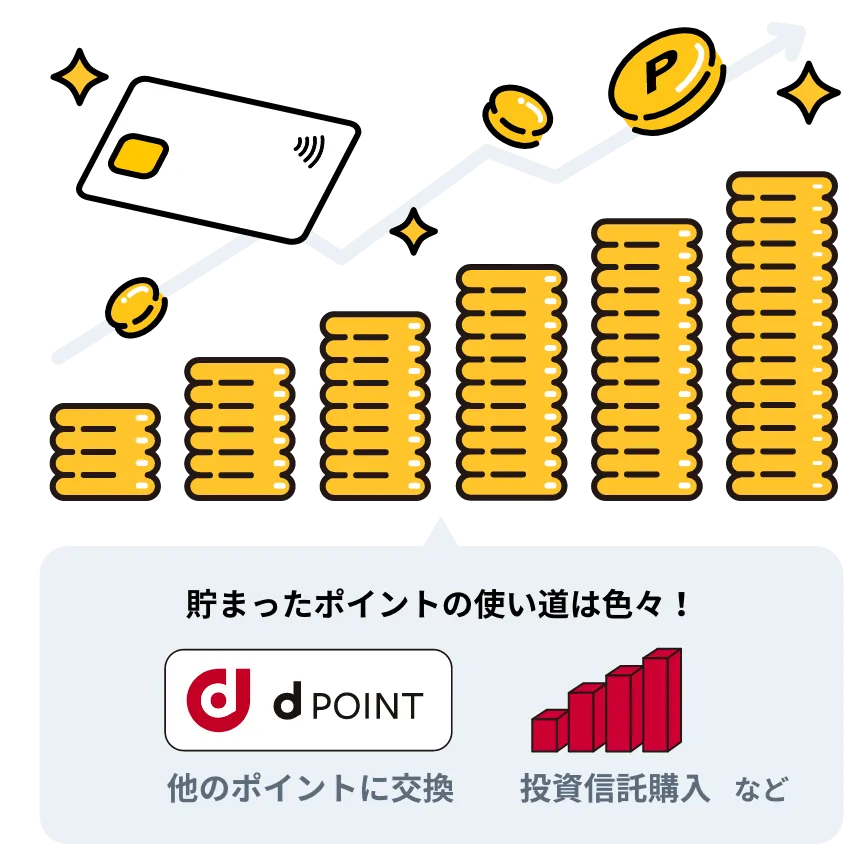
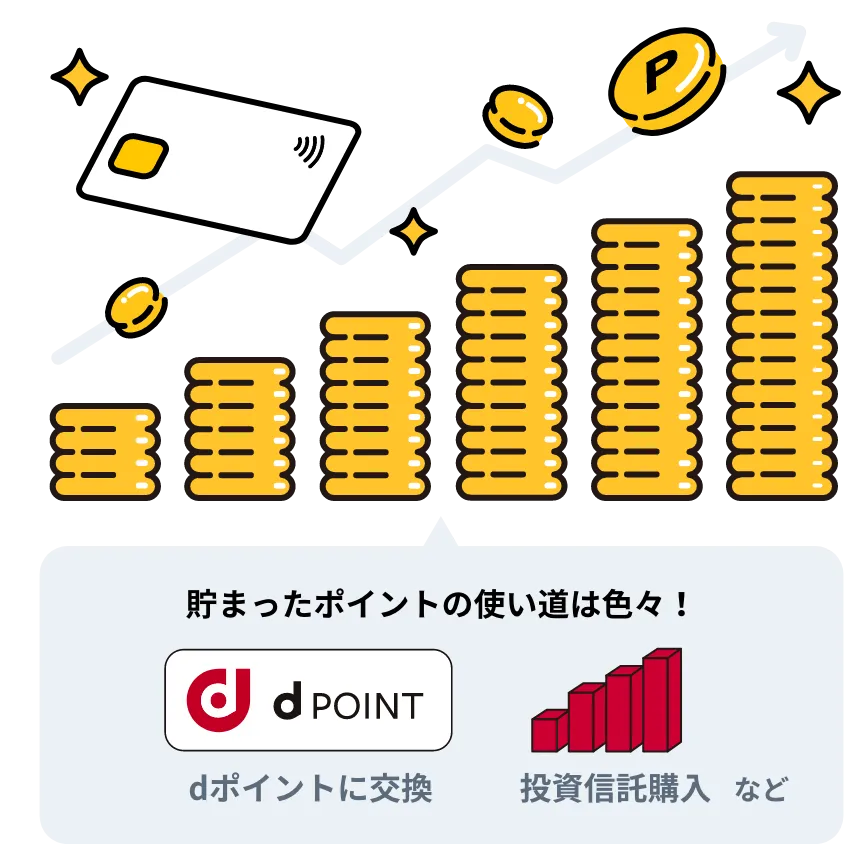
fix: img_feature_02の差し替え

Changed region(s): [[0.1814, 0.8934, 0.5442, 0.955]]

diff --git a/src/pages/index.tsx b/src/pages/index.tsx
@@ -401,7 +401,7 @@ const FeaturesOfMonex = () => {
                 </h3>
                 <img
                   src="/image/feature/docomo-cooperation/img_feature_02.webp"
-                  alt="貯まったポイントの使い道は色々！他のポイントに交換、投資信託購入など"
+                  alt="貯まったポイントの使い道は色々！dポイントに交換、投資信託購入など"
                   width={860}
                   height={844}
                 />
